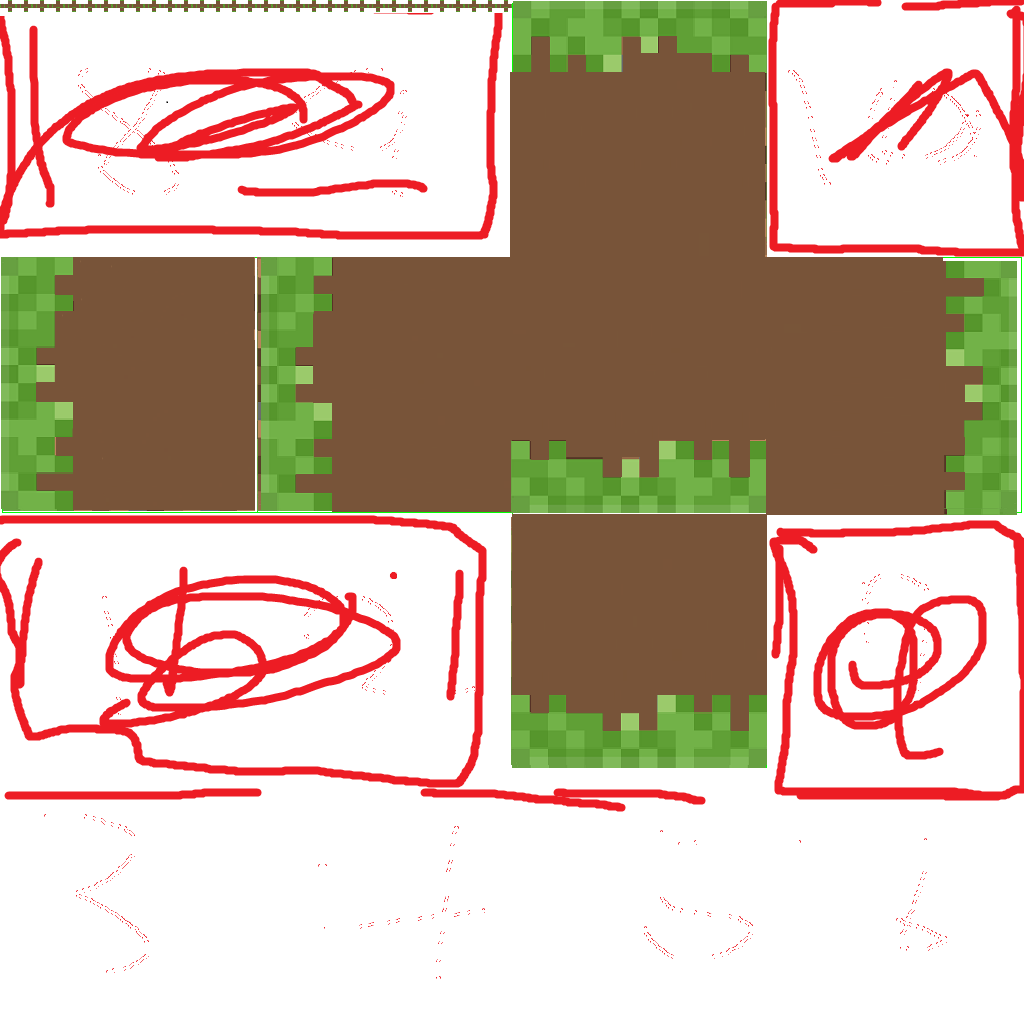
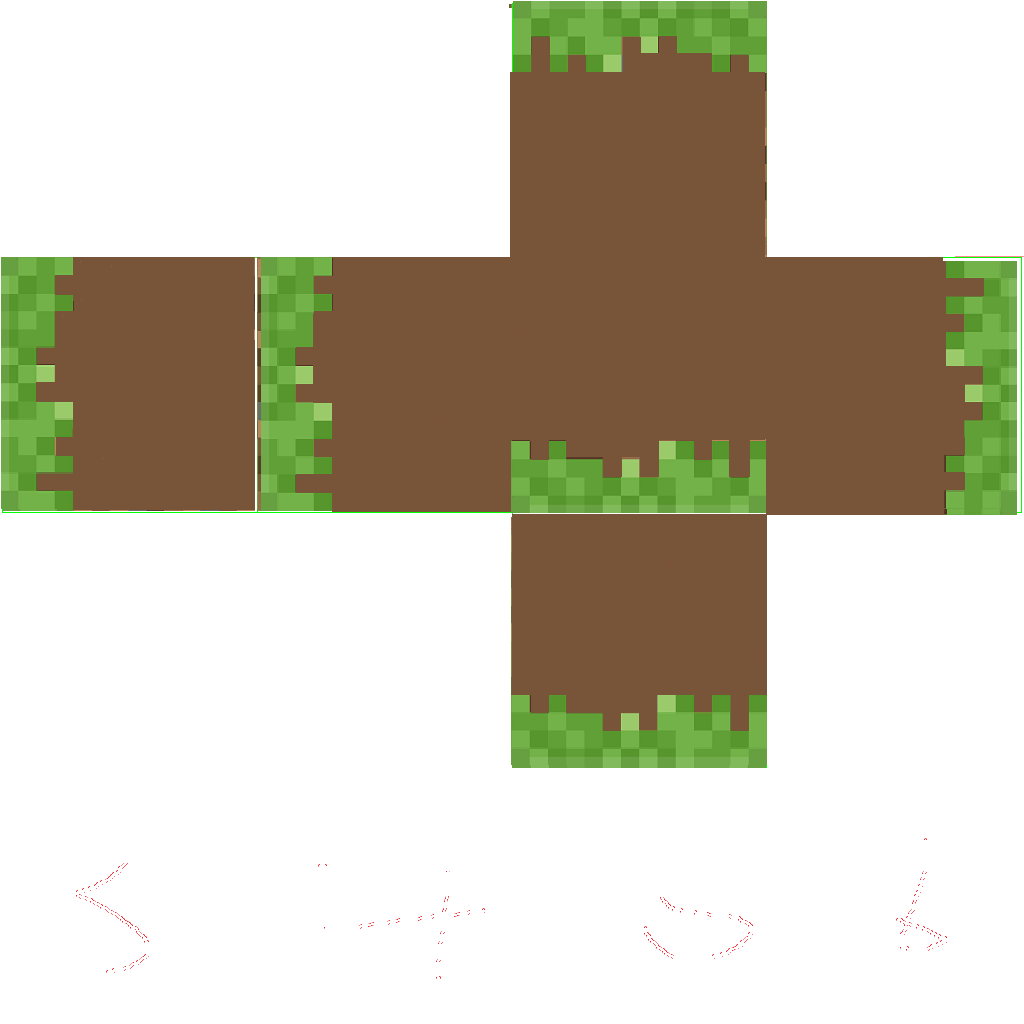
light pos, map block color

diff --git a/TermProject/CStage1.cpp b/TermProject/CStage1.cpp
@@ -40,7 +40,7 @@ HRESULT CStage1::Initialize()
 		{
 			if (i == 0 || i == 14)
 			{
-				pObj = CObject::Create("../Resource/MapCube/cube3.obj", glm::vec3(-15 + 1.0f * j, 1.0f * i - 0.5f, 0.0f), { 1.0, 1.0, 1.0, 1.0 });
+				pObj = CObject::Create("../Resource/MapCube/cube3.obj", glm::vec3(-15 + 1.0f * j, 1.0f * i - 0.5f, 0.0f), { 0.6, 0.6, 0.6, 1.0 });
 				if (FAILED(m_pGameMgr->Add_GameObj(OBJ_MAP, pObj)))
 					return E_FAIL;
 			}
@@ -48,7 +48,7 @@ HRESULT CStage1::Initialize()
 			{
 				if (j == 0 || j == 29)
 				{
-					pObj = CObject::Create("../Resource/MapCube/cube3.obj", glm::vec3(-15 + 1.0f * j, 1.0f * i - 0.5f, 0.0f), { 1.0, 1.0, 1.0, 1.0 });
+					pObj = CObject::Create("../Resource/MapCube/cube3.obj", glm::vec3(-15 + 1.0f * j, 1.0f * i - 0.5f, 0.0f), { 0.6, 0.6, 0.6, 1.0 });
 					if (FAILED(m_pGameMgr->Add_GameObj(OBJ_MAP, pObj)))
 						return E_FAIL;
 				}
@@ -57,16 +57,16 @@ HRESULT CStage1::Initialize()
 		}
 	}
 	
-	pObj = CObject::Create("../Resource/MapCube/cube3.obj", glm::vec3(-15 + 1.0f * 28, 1.0f * 10 - 0.5f, 0.0f), { 1.0, 1.0, 1.0, 1.0 });
+	pObj = CObject::Create("../Resource/MapCube/cube3.obj", glm::vec3(-15 + 1.0f * 28, 1.0f * 10 - 0.5f, 0.0f), { 0.6, 0.6, 0.6, 1.0 });
 	if (FAILED(m_pGameMgr->Add_GameObj(OBJ_MAP, pObj)))
 		return E_FAIL;
-	pObj = CObject::Create("../Resource/MapCube/cube3.obj", glm::vec3(-15 + 1.0f * 27, 1.0f * 10 - 0.5f, 0.0f), { 1.0, 1.0, 1.0, 1.0 });
+	pObj = CObject::Create("../Resource/MapCube/cube3.obj", glm::vec3(-15 + 1.0f * 27, 1.0f * 10 - 0.5f, 0.0f), { 0.6, 0.6, 0.6, 1.0 });
 	if (FAILED(m_pGameMgr->Add_GameObj(OBJ_MAP, pObj)))
 		return E_FAIL;
-	pObj = CObject::Create("../Resource/MapCube/cube3.obj", glm::vec3(-15 + 1.0f * 26, 1.0f * 10 - 0.5f, 0.0f), { 1.0, 1.0, 1.0, 1.0 });
+	pObj = CObject::Create("../Resource/MapCube/cube3.obj", glm::vec3(-15 + 1.0f * 26, 1.0f * 10 - 0.5f, 0.0f), { 0.6, 0.6, 0.6, 1.0 });
 	if (FAILED(m_pGameMgr->Add_GameObj(OBJ_MAP, pObj)))
 		return E_FAIL;
-	pObj = CObject::Create("../Resource/Cube/TestCube.obj", glm::vec3(-15 + 1.0f * 10, 1.0f * 5 - 0.5f, 0.0f), { 1.0, 1.0, 1.0, 1.0 });
+	pObj = CObject::Create("../Resource/Cube/TestCube.obj", glm::vec3(-15 + 1.0f * 10, 1.0f * 5 - 0.5f, 0.0f), { 0.6, 0.6, 0.6, 1.0 });
 	if (FAILED(m_pGameMgr->Add_GameObj(OBJ_BOX, pObj)))
 		return E_FAIL;
 

diff --git a/TermProject/CCamera.cpp b/TermProject/CCamera.cpp
@@ -67,6 +67,15 @@ GLvoid CCamera::Render()
 
 	int lightLoc = glGetUniformLocation(program, "lightPos");
 	glUniform3fv(lightLoc, 1, value_ptr(m_vLightPos));
+	
+	int lightColorLocation = glGetUniformLocation(program, "lightColor");
+	glUniform3f(lightColorLocation, m_vLightColor.x, m_vLightColor.y, m_vLightColor.z);
+
+	int lightOnLocation = glGetUniformLocation(program, "light_on");
+	glUniform1i(lightOnLocation, m_iLight);
+
+	int lightIntensityLocation = glGetUniformLocation(program, "light_intensity");
+	glUniform1f(lightIntensityLocation, m_fLintensity);
 
 	if (m_pGameMgr->Get_View() == true && !bMovingCamera)
 	{
@@ -81,13 +90,12 @@ GLvoid CCamera::Render()
 	int PosLoc = glGetUniformLocation(program, "viewPos");
 	glUniform3fv(PosLoc, 1, value_ptr(m_vEye));
 
-	//int DirLoc = glGetUniformLocation(program, "vLightDir");
-	//glUniform3fv(DirLoc, 1, value_ptr(glm::vec3(m_vLightDir)));
 	return GLvoid();
 }
 
 glm::mat4 CCamera::Get_Ortho()
 {
+	m_vLightPos = glm::vec3(30.0f, 50.0f, 10.0f);
 	glm::mat4 proj = glm::mat4(1.0f);
 	proj = glm::ortho(-16.0f, 16.0f, -8.0f, 8.0f, 1.0f, m_fFar);
 	proj = glm::translate(proj, m_vec3Translate);
@@ -97,6 +105,7 @@ glm::mat4 CCamera::Get_Ortho()
 
 glm::mat4 CCamera::Get_Perspective()
 {
+	m_vLightPos = { 30.0f, 6.5f, 0.0f };
 	glm::mat4 proj = glm::perspective(glm::radians(m_fFovY), (float)WINCX / (float)WINCY, m_fNear, m_fFar);
 	proj = glm::translate(proj, m_vec3Translate);
 	proj = glm::rotate(proj, glm::radians(m_vec3Rotate.y), glm::vec3(0.0, 1.0, 0.0));

diff --git a/TermProject/CGameManager.cpp b/TermProject/CGameManager.cpp
@@ -244,15 +244,6 @@ GLvoid CGameManager::Update(const GLfloat fTimeDelta)
 			BB OBJ_BB = (*iter_begin)->Get_BB();
 			if (monster_BB.left <= OBJ_BB.right && monster_BB.right >= OBJ_BB.right)
 			{
-				cout << "Mon_left - " << monster_BB.left << endl;
-				cout << "Mon_right - " << monster_BB.right << endl;
-				cout << "Mon_top - " << monster_BB.top << endl;
-				cout << "Mon_bottom - " << monster_BB.bottom << endl;
-
-				cout << "Box_left - " << OBJ_BB.left << endl;
-				cout << "Box_right - " << OBJ_BB.right << endl;
-				cout << "Box_top - " << OBJ_BB.top << endl;
-				cout << "Box_bottom - " << OBJ_BB.bottom << endl;
 				if (OBJ_BB.bottom <= monster_BB.top && monster_BB.top <= OBJ_BB.top)
 				{
 					dynamic_cast<Monster*>((*monster_iter_begin))->GetDir() = 1;

diff --git a/TermProject/CCamera.h b/TermProject/CCamera.h
@@ -27,8 +27,10 @@ private:
 	glm::vec3 m_vAt = glm::vec3(0.f, 0.f, 0.f);
 	glm::vec3 m_vUp = glm::vec3(0.f, 1.f, 0.f);
 	glm::vec3 m_vDir = glm::vec3(0.f, 0.f, 0.f);
-	glm::vec3 m_vLightPos = glm::vec3(10.0f, 6.5f, 20.0f);
-	glm::vec3 m_vLightDir = glm::vec3(0.f, 0.f, 0.f);
+	glm::vec3 m_vLightPos = glm::vec3(30.0f, 100.0f, 0.0f);
+	glm::vec3 m_vLightColor = glm::vec3(1.0f);
+	int m_iLight = 1;
+	float m_fLintensity = 0.5;
 	glm::vec3 m_vec3PRotate{ 0.0, 0.0, 0.0 };
 	glm::vec3 m_vec3Translate{ 0.0, 0.0, 0.0 };
 	glm::vec3 m_vec3Rotate{ 0.0, 0.0, 0.0 };

diff --git a/TermProject/Player3.cpp b/TermProject/Player3.cpp
@@ -30,6 +30,9 @@ HRESULT Player3::Initialize()
 
 GLint Player3::Update(const GLfloat fTimeDelta)
 {
+	cout << "x - " << m_Player->GetPos().x << endl;
+	cout << "y - " << m_Player->GetPos().y << endl;
+	cout << "z - " << m_Player->GetPos().z << endl;
 	//bool temp = CCamera::Get_Move();
 	if (!m_pGameMgr->Get_View()) { // 3DPlayer
 		for (auto i : m_Player->GetSMESH()) {

diff --git a/TermProject/Monster.cpp b/TermProject/Monster.cpp
@@ -124,7 +124,6 @@ GLint Monster::Update(const GLfloat fTimeDelta)
 	{
 		m_pMonster->GetRotate().y = 0;
 		m_pMonster->GetPos().x += 0.08 * m_iDir;
-		cout << "Dir - " << m_iDir << endl;
 
 		if (m_pMonster->GetPos().x + 0.5 >= 13)
 			m_iDir = -1;
